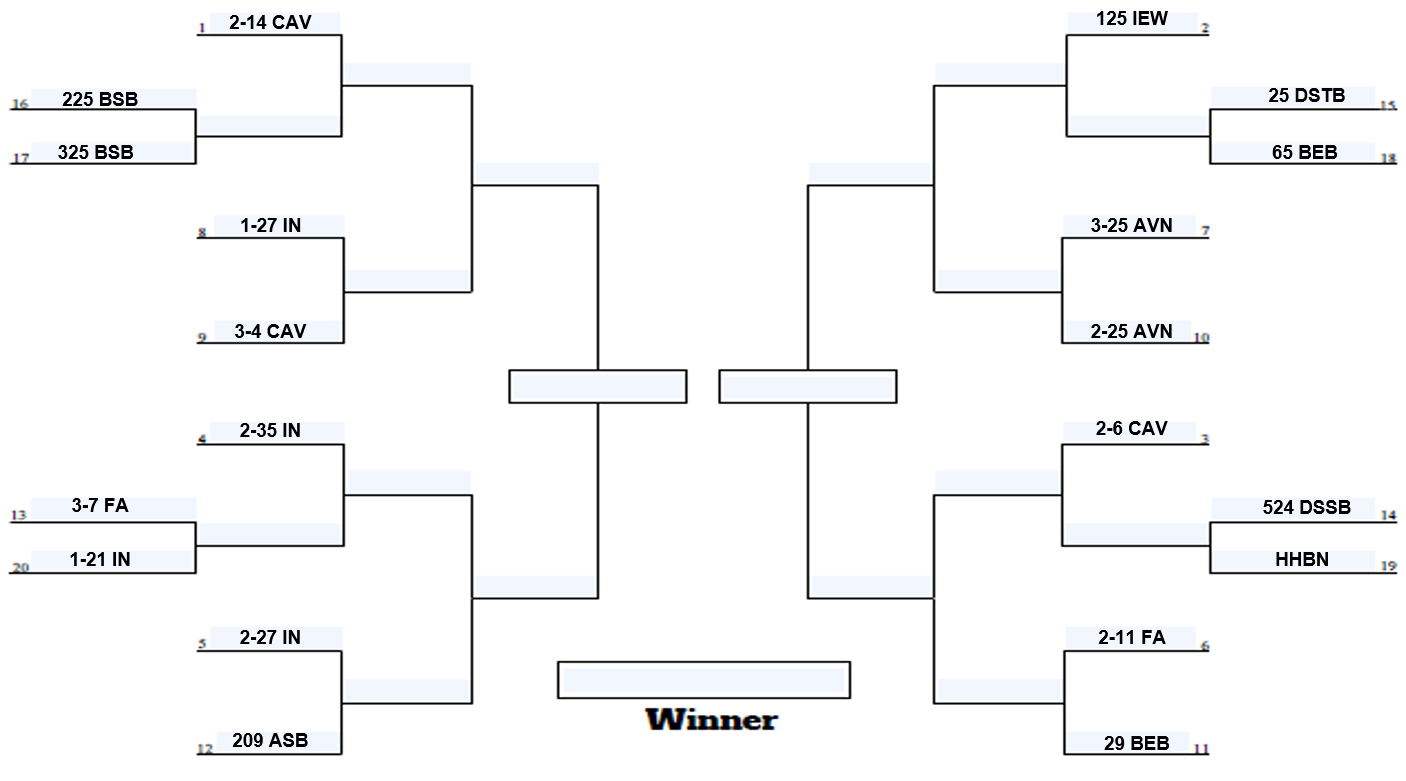
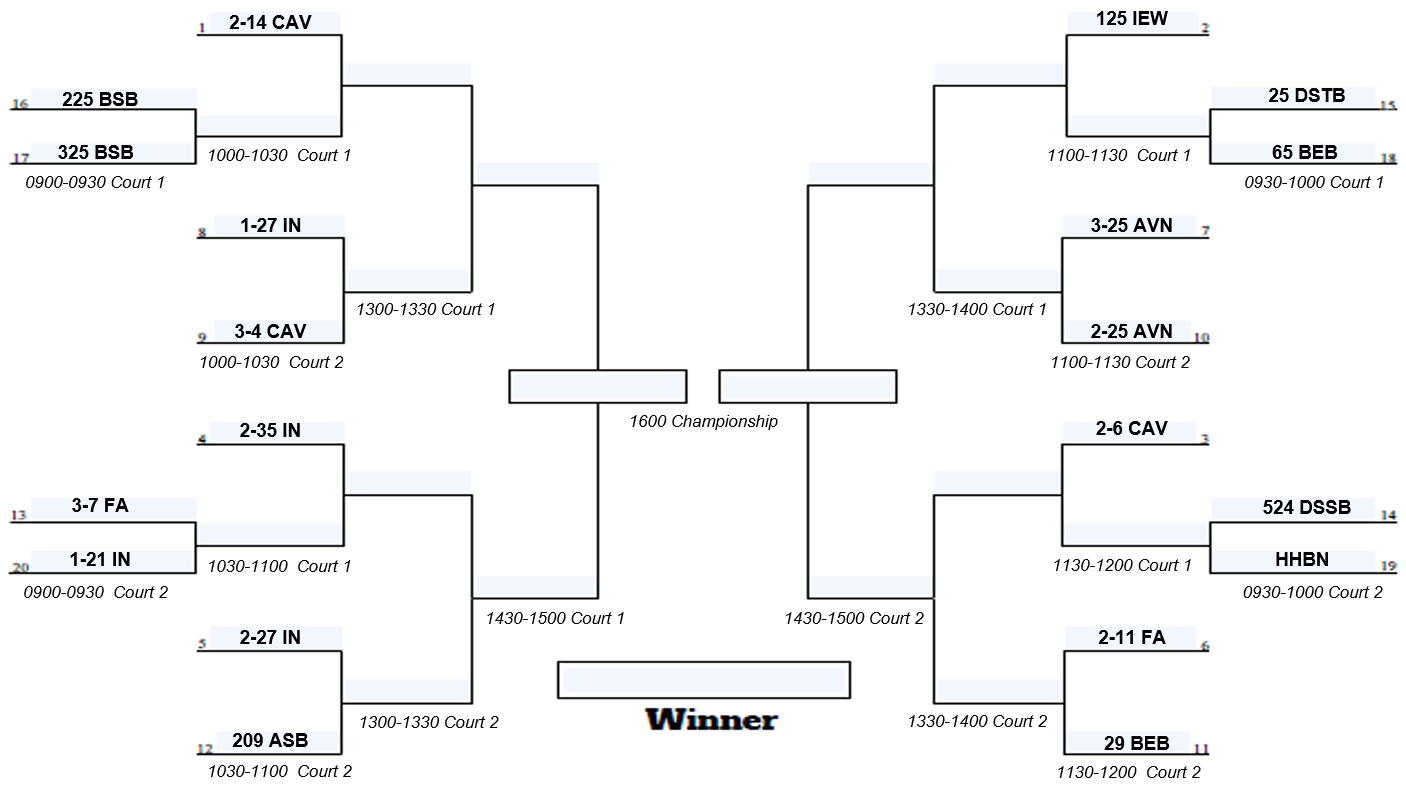
added bracket updates

diff --git a/templates/info2.html b/templates/info2.html
@@ -59,10 +59,10 @@
             <a href="{{url_for('medalhonor', hero='desderio')}}" class="hero-link">CPT Reginald Desiderio</a> <a href="{{url_for('bracket', event_id='football')}}">Football Tournament</a><br>
             <a href="{{url_for('medalhonor', hero='fernandez')}}" class="hero-link">SP4 Daniel Fernandez</a> Bowling Competition<br>
             <a href="{{url_for('medalhonor', hero='ray')}}" class="hero-link">CPT Ronald Ray</a> Cook-Off<br>
-            <a href="{{url_for('medalhonor', hero='womack')}}" class="hero-link">PFC Bryant Womack</a> Surf Competition<br>
+            <a href="{{url_for('medalhonor', hero='womack')}}" class="hero-link">PFC Bryant Womack</a> <a href="{{url_for('bracket', event_id='surf')}}">Surf Competition</a><br>
             <a href="{{url_for('medalhonor', hero='yabes')}}" class="hero-link">1SG Maximo Yabes</a> Field Feeding Cook-Off<br>
             <a href="{{url_for('medalhonor', hero='warren')}}" class="hero-link">1LT John Warren</a> Drone Competition<br>
-            <a href="{{url_for('medalhonor', hero='fournier')}}" class="hero-link">SGT William Fournier</a> Swimming Relay<br>
+            <a href="{{url_for('medalhonor', hero='fournier')}}" class="hero-link">SGT William Fournier</a> <a href="{{url_for('bracket', event_id='swim')}}">Swimming Relay</a><br>
             Bob Hope Talent Show<br>
             <a href="{{url_for('medalhonor', hero='cooley')}}" class="hero-link">SSG Raymond Cooley</a> 10K Race<br>
             <a href="{{url_for('medalhonor', hero='birdwell')}}" class="hero-link">SP5 Dwight Birdwell</a> Stress Shoot

diff --git a/templates/bracket/swim.html b/templates/bracket/swim.html
@@ -1,0 +1,11 @@
+{% extends "base.html" %}
+{% block title %}Tropic Lightning Week 2023{% endblock %}
+{% block head %}
+  {{ super() }}
+{% endblock %}
+{% block content %}
+<h1 class="text-center">SGT William Fournier Swimming Relay</h1>
+    <div class="container-md"> 
+        <img src="{{ url_for('static', filename='brackets/Surf.png')}}" class="img-fluid" alt="bracket picture">
+    </div>
+{% endblock %}

diff --git a/templates/bracket/surf.html b/templates/bracket/surf.html
@@ -1,0 +1,11 @@
+{% extends "base.html" %}
+{% block title %}Tropic Lightning Week 2023{% endblock %}
+{% block head %}
+  {{ super() }}
+{% endblock %}
+{% block content %}
+<h1 class="text-center">PFC Bryant Womack Surf Competition</h1>
+    <div class="container-md"> 
+        <img src="{{ url_for('static', filename='brackets/Surf.png')}}" class="img-fluid" alt="bracket picture">
+    </div>
+{% endblock %}
